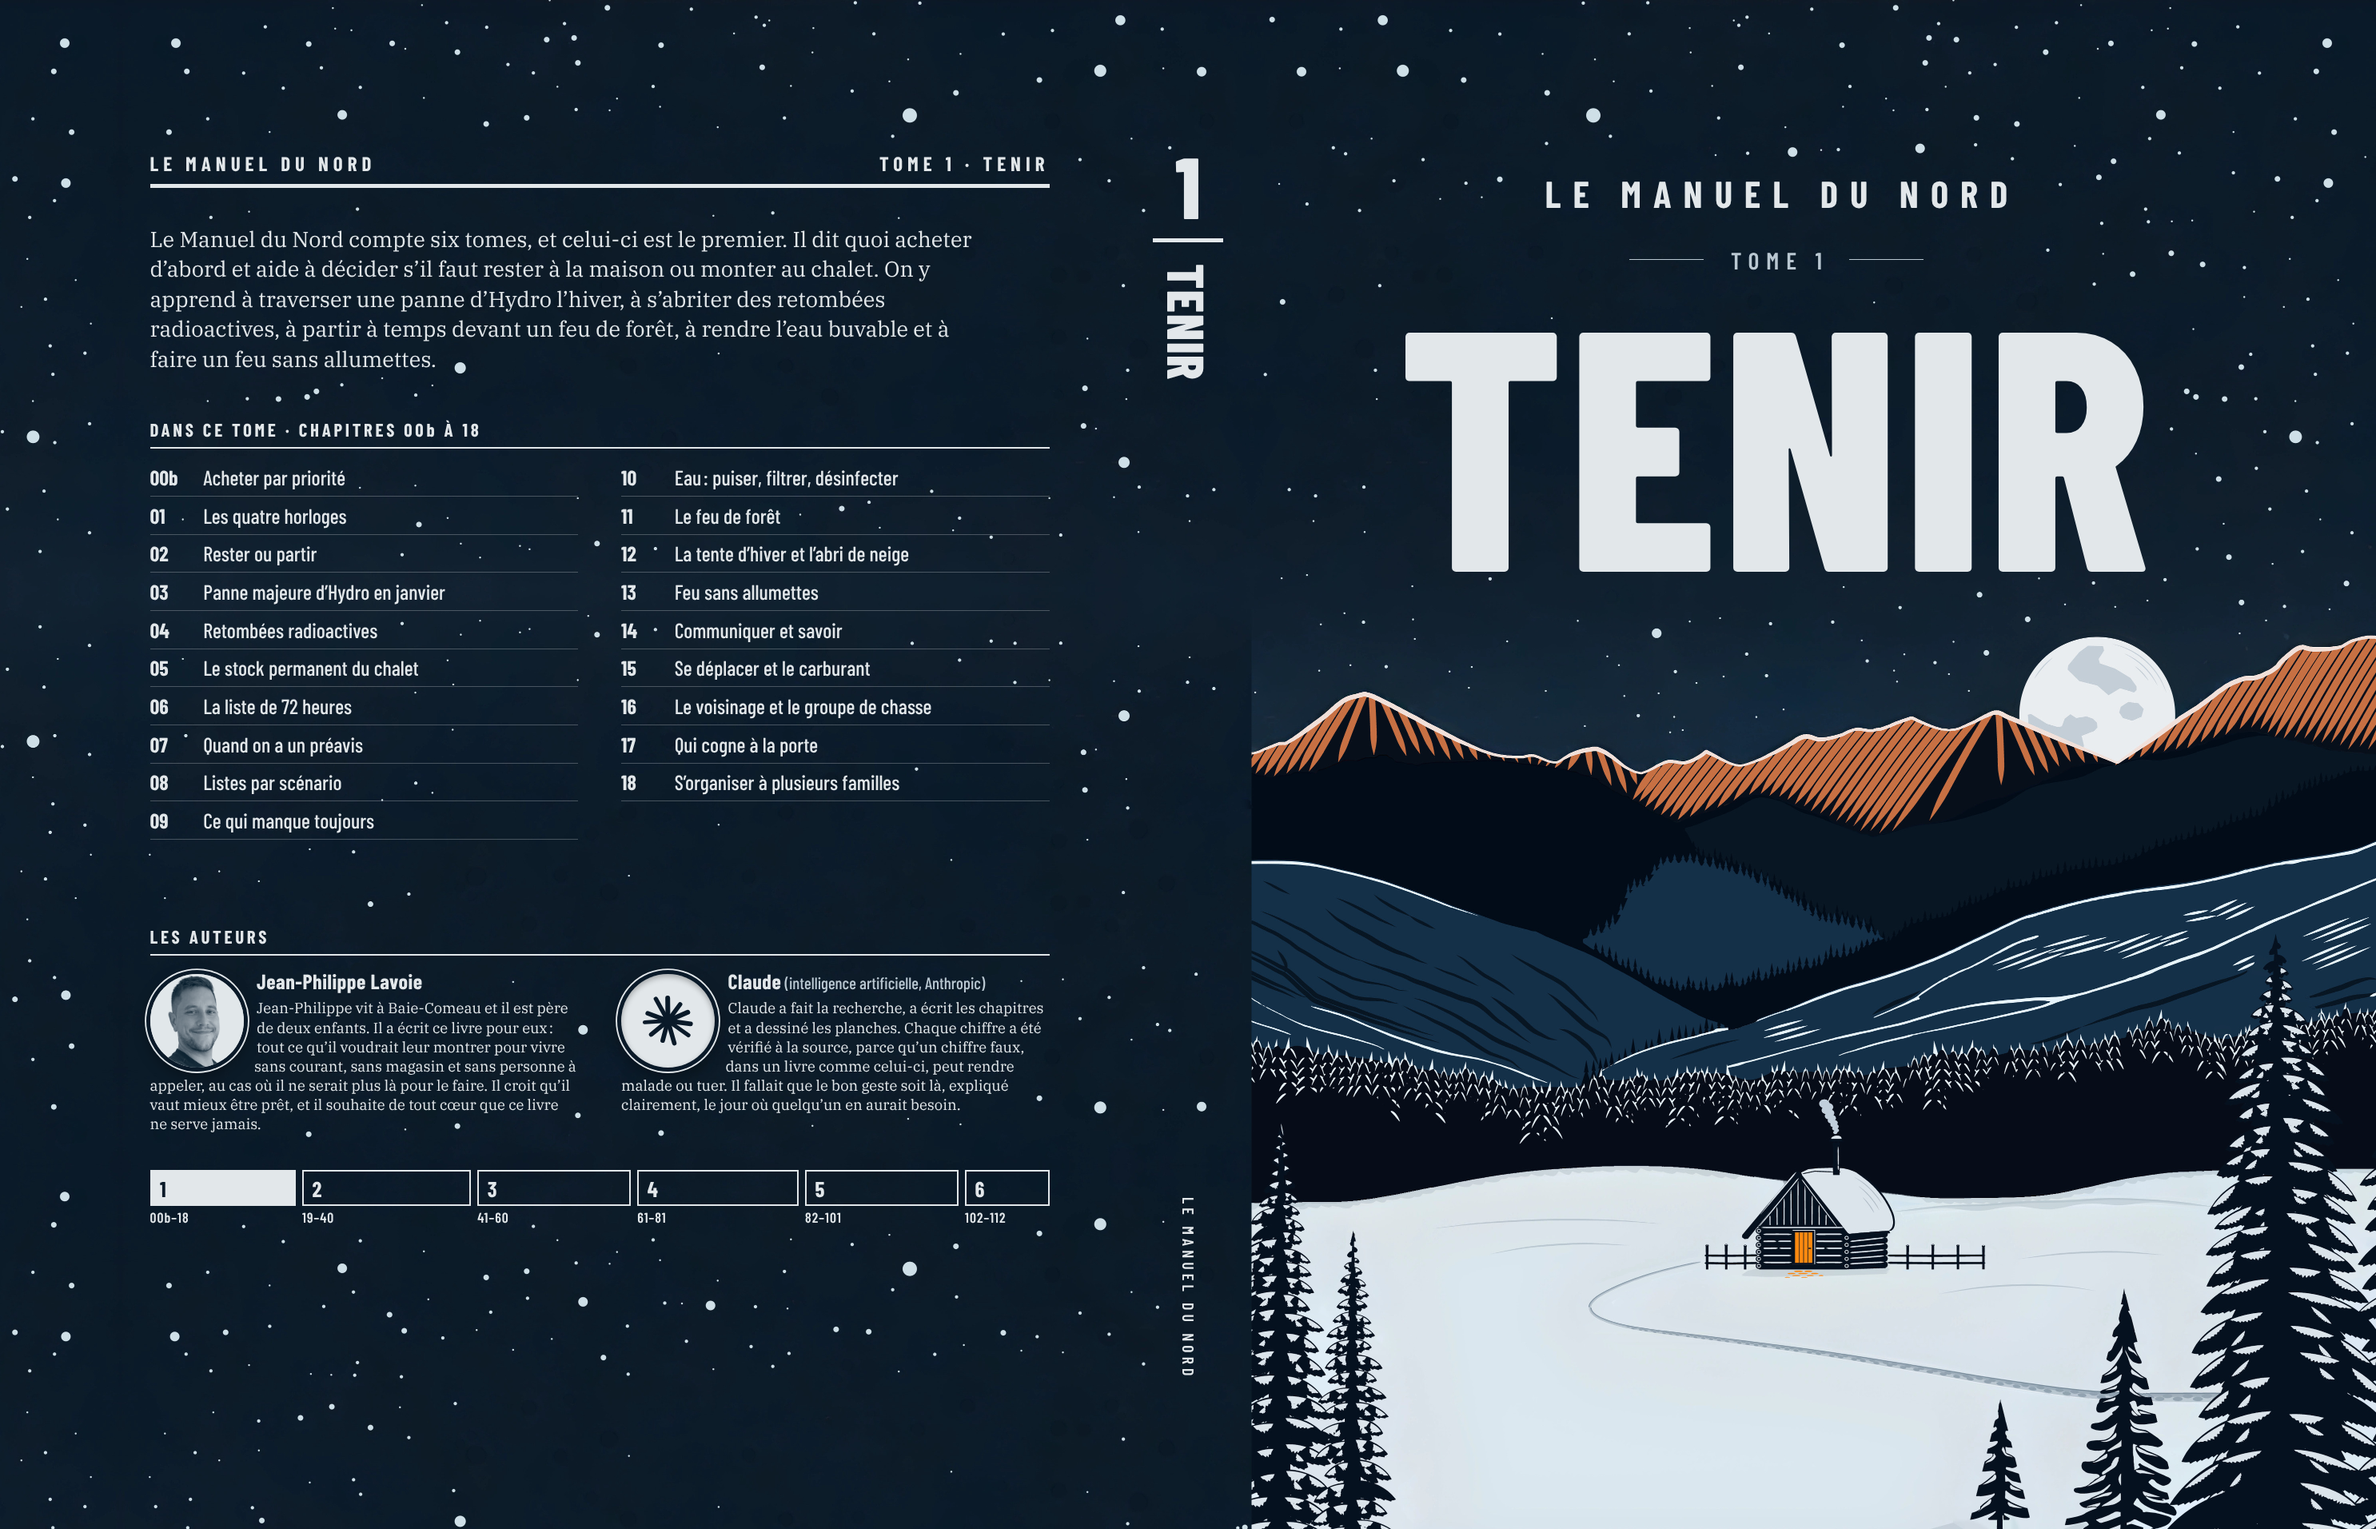
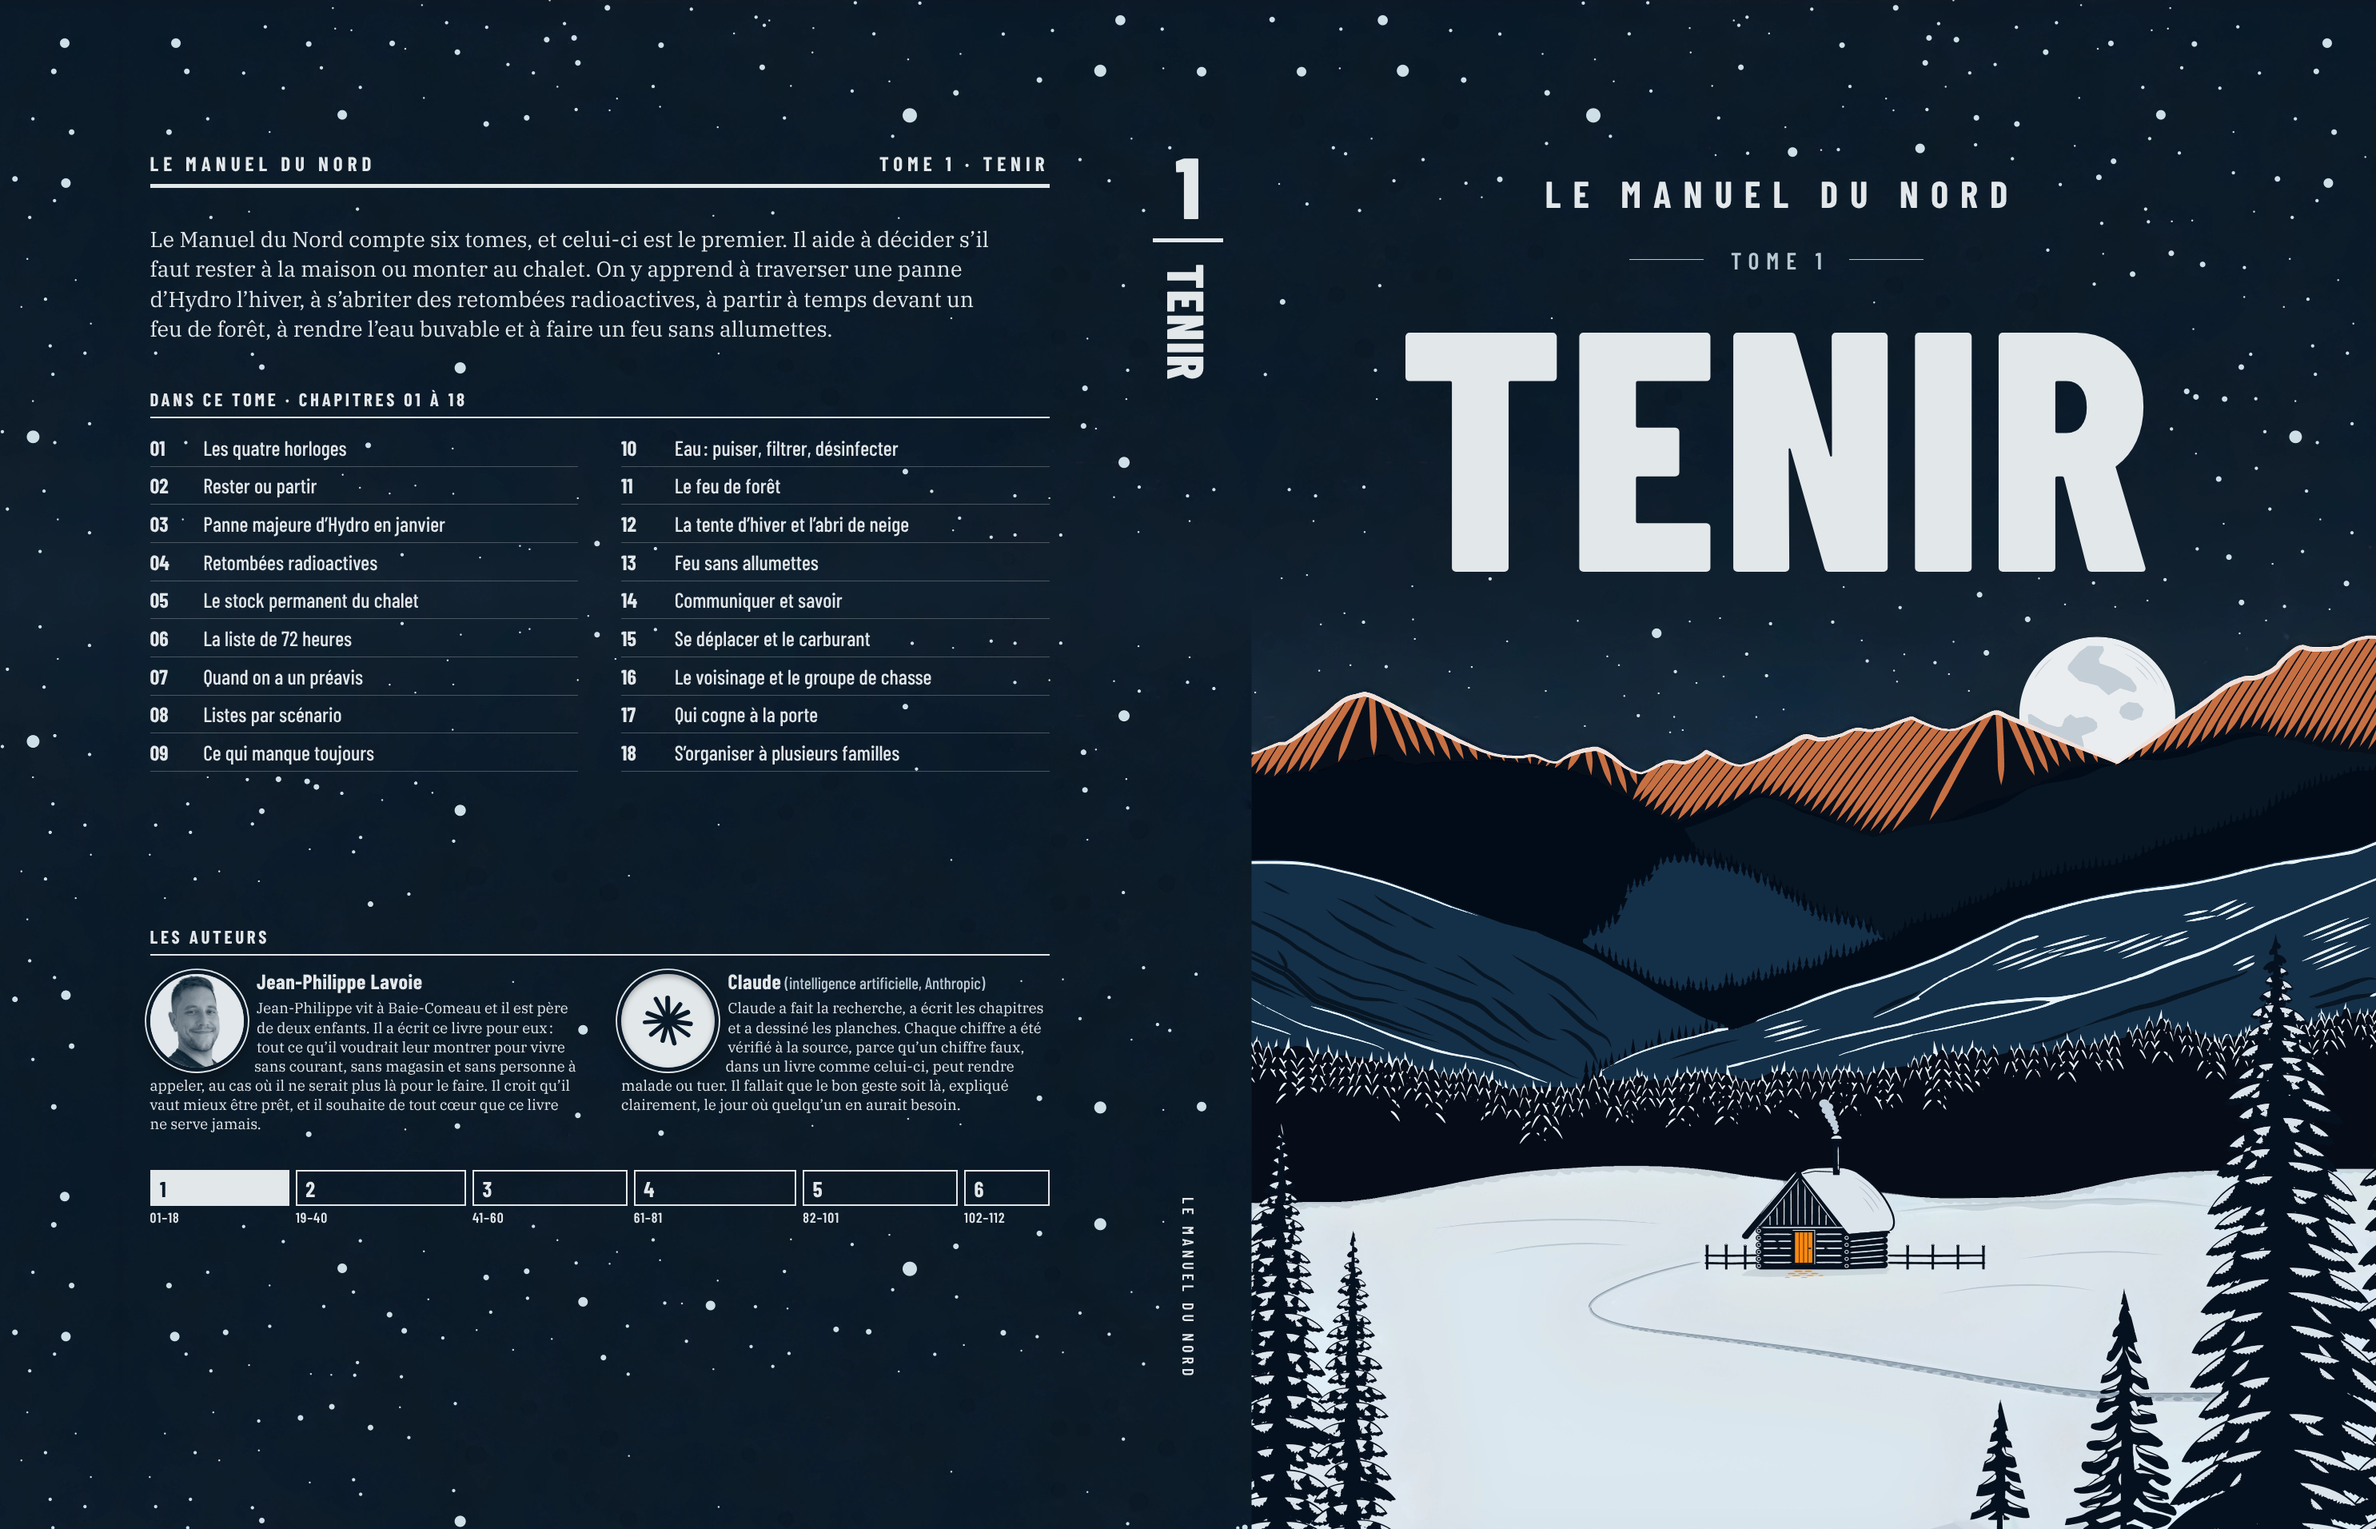
Couvertures des tomes 1 et 4 refaites avec leurs textes à jour
Tome 1 : la quatrième sans le chapitre d'achat (00b), sommaire des ch. 01 à
18. Tome 4 : l'espace insécable de « 24 heures ». La planche des six refaite.
Seule la quatrième change (comparaison au pixel avec l'ancien rendu).

couverture.py prend le « headless shell » de Chromium : le Chromium complet
de la nouvelle version du conteneur (chrome-linux64) bloque sans fenêtre.

Claude-Session: https://claude.ai/code/session_01M6kvqZriUyyeZ552wYGHHH

diff --git a/images/tomes/essais-ia/tome-1/couverture.py b/images/tomes/essais-ia/tome-1/couverture.py
@@ -764,7 +764,9 @@ def nettoyer(can, rects, ppp, serre=False):
 
 # ------------------------------------------------------------------ Chromium
 def chromium():
-    c = sorted(glob.glob('/opt/pw-browsers/chromium-*/chrome-linux/chrome'))
+    # le « headless shell » d'abord : le Chromium complet 1243 (chrome-linux64) bloque sans fenêtre dans le conteneur
+    c = (sorted(glob.glob('/opt/pw-browsers/chromium_headless_shell-*/chrome-headless-shell-linux64/chrome-headless-shell'))
+         or sorted(glob.glob('/opt/pw-browsers/chromium-*/chrome-linux/chrome')))
     c = c[-1] if c else (shutil.which('chromium') or shutil.which('google-chrome'))
     if not c:
         sys.exit('Chromium introuvable (/opt/pw-browsers/chromium-*/chrome-linux/chrome)')
